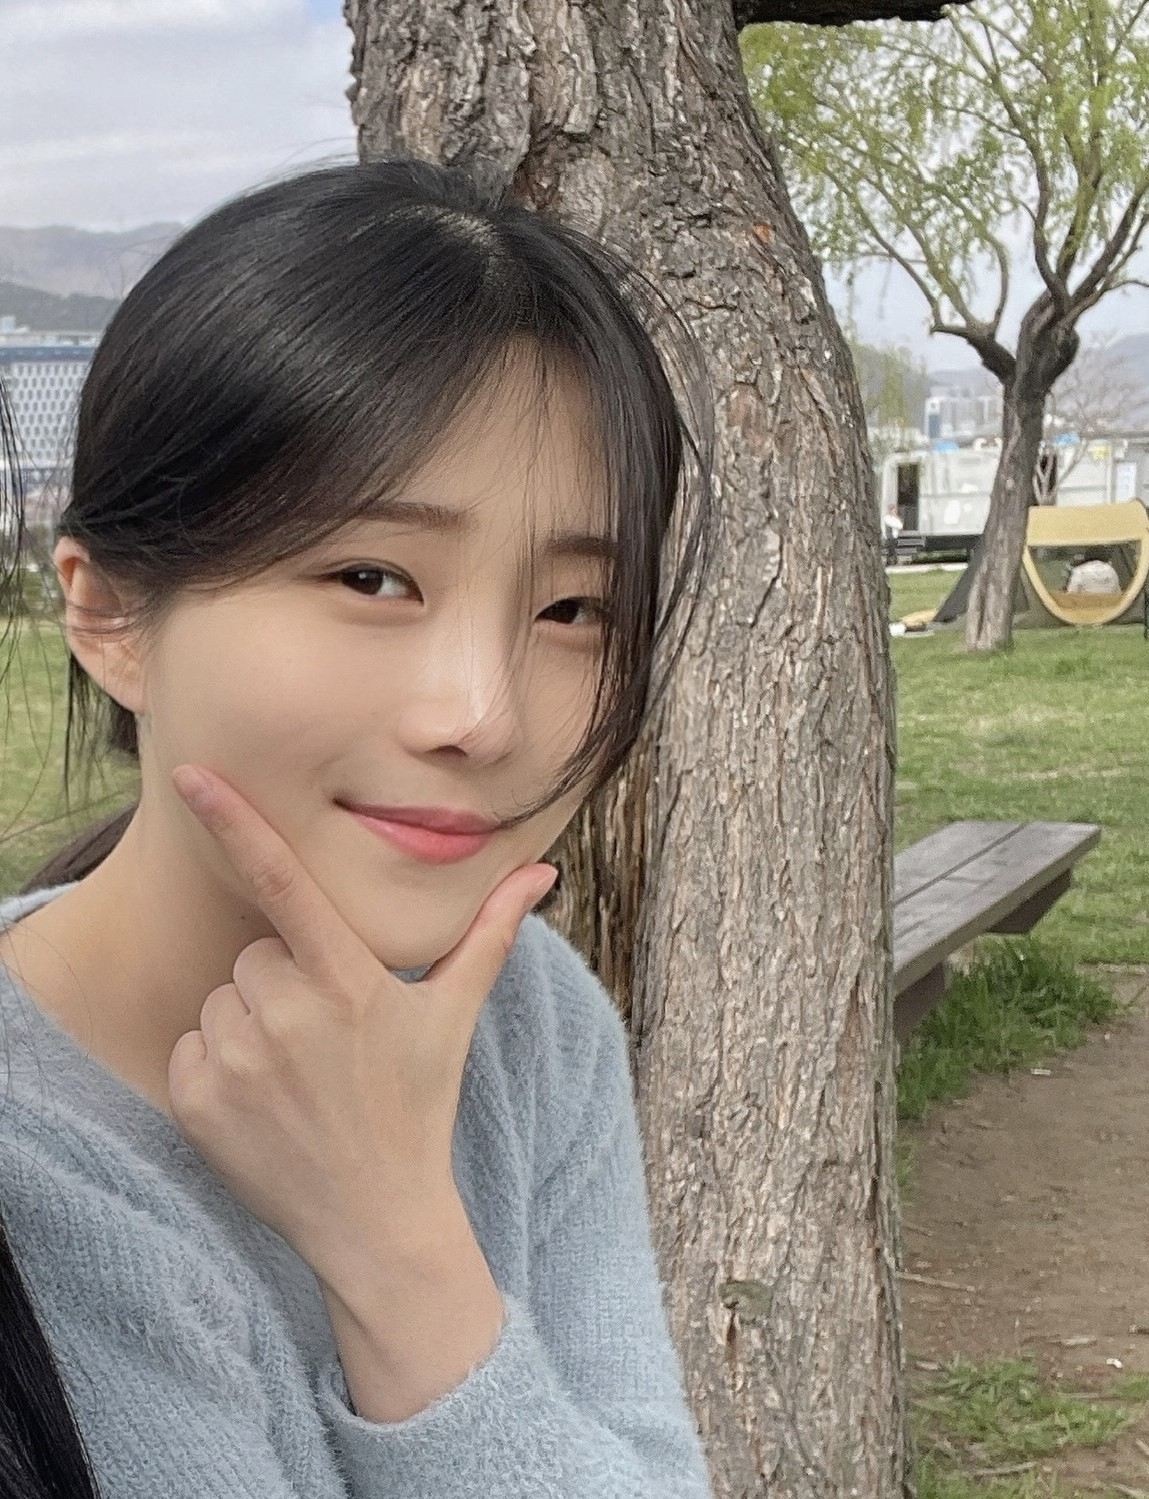
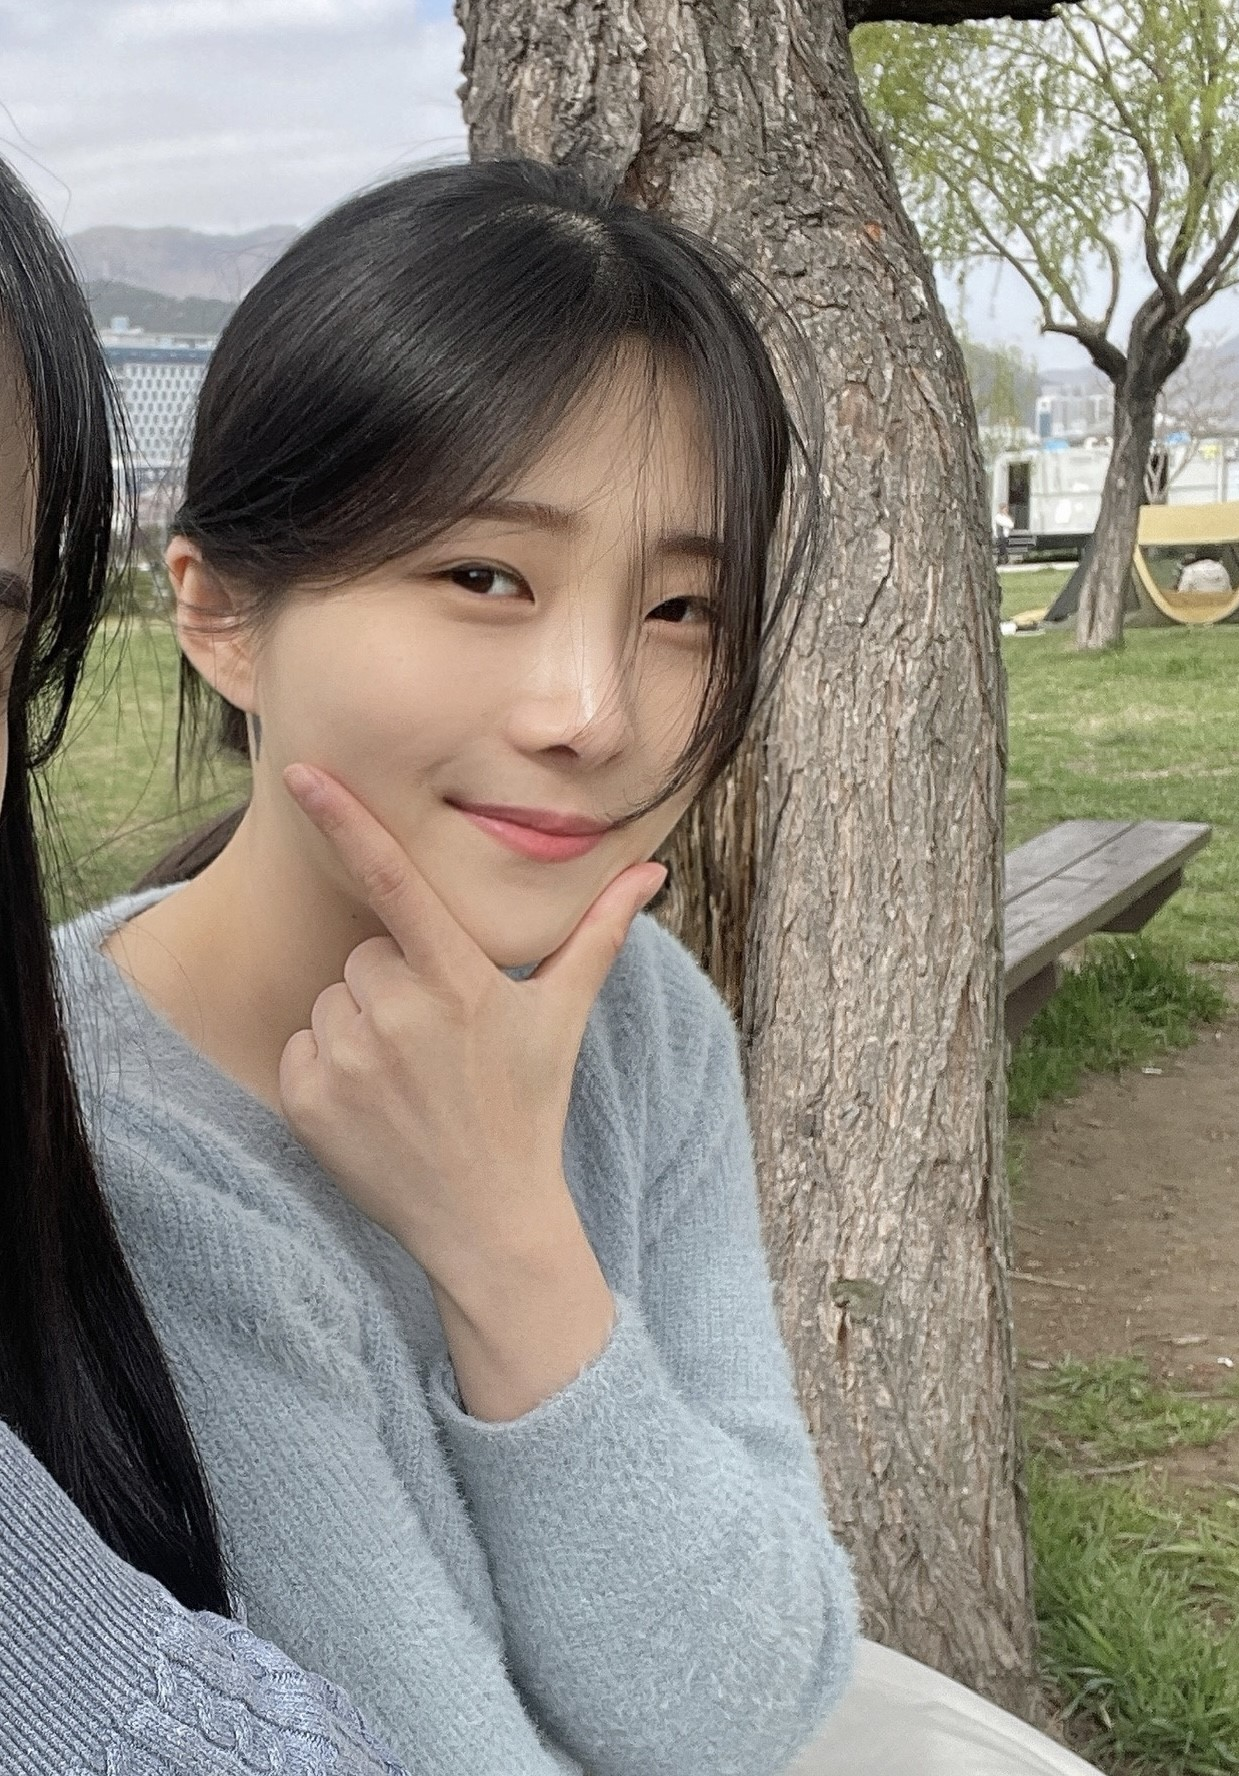
프로젝트 수정

diff --git a/src/app/project/[id]/projects.js b/src/app/project/[id]/projects.js
@@ -106,8 +106,9 @@ export const projects = [
                 쿠키 인증에 기반한 로그인 로직을 구현하였고, 인증된 사용자에게만 CRUD 구현이 가능한 나만의 일기장 서비스입니다.`,
       created: "2024.01.20 - 2024.02.02",
       stacks: ["ASP.Net core", "Javascript", "MariaDB", "BootStrap", "Jquery"],
-      url: "/img/project_mydiary.png",
+      url: "/img/project_mydiary2.png",
       gifUrl: "/img/project_mydiary.gif",
+      gifUrl2: "/img/project_mydiary_login.gif",
       path: "/project/mydiary",
       developments: [
         "MVC(Model-View-Controller) 패턴을 사용하여 각 구성 요소 간의 결합도를 낮추었습니다.",
@@ -160,37 +161,33 @@ export const projects = [
     },
     {
       params: "gpt",  
-      name: "GPT 심리상담사",
+      name: "GPT 레시피",
       content: 
-      `공기청정기 제작 및 렌탈기업을 위한 웹사이트 전체 개발 프로젝트를 주도.
-      기업 홍보와 발주 문의 및 견적 접수 기능, 
-      제품 소개를 위한 페이지로 기획부터 디자인, 
-      프론트엔드와 백엔드 개발을 포함한 전 과정을 
-      단독으로 관리 중인 실제 서비스이다. `,
-      created: "2023.08.10 - 2023.09.17",
-      stacks: ["React.js", "Firebase", "Figma"],
+      `GPT-3.5-Turbo API를 활용하여 사용자의 상황과 요리 능력,
+      가지고 있는 재료들을 기반으로 맞춤형 레시피를 제공해주는 서비스입니다.
+       `,
+      created: "2024.02.16 - 2024.02.23",
+      stacks: ["React.js", "Firebase", "antd", "openAI"],
       url: "/img/project_gpt.png",
       gifUrl: "/img/project_gpt.gif",
       path: "/project/gpt",
       developments: [
-        " Figma를 이용해 모바일에서도 최적화된 디자인 구현",
-         "BrowserRouter를 이용한 라우팅으로 SPA 웹 구현",
-         "React Suspense를 활용하여 비동기 작업으로 로딩 최적화",
-         "자주 사용되는 imageViewer, modal을 재사용 가능한 컴포넌트로 코드 효율성 증대",
-         "Kakao map API를 이용해 기업 위치 추가",
-         "Firestore를 이용해 클라이언트 견적 요청 저장",
-         "Firebase authentication을 활용해 관리자 페이지 보안 설정",
-         "Firebase를 통한 배포 및 도메인 연결",
+       " GPT-3.5-Turbo 모델 API를 통합하여 사용자 입력을 인공지능으로 분석하고, 결과를 JSON 형식으로 수신하였습니다.",
+        "컴포넌트 기반 접근 방식으로 SPA 웹 애플리케이션을 구현하였습니다.",
+        "TailwindCSS를 사용하여 모바일 환경에서도 최적화된 반응형 디자인을 구현하였습니다.",
+        "사용자 입력 검증을 위해 Ant Design의 message API를 활용하였습니다.",
+        "Firebase를 이용하여 애플리케이션의 호스팅을 진행하였습니다.",
        ],
        reviews: [
-         "스크롤이벤트를 사용하면서 observer를 사용하는 것과 아닌 것의 차이점",
-         "CSR의 SEO에 취약하여 React-Helmet을 사용하였지만 번거로워 Next.js를 사용할 예정",
-         "react suspense로 얻을 수 있는 이점", 
-         "useEffect의 Dependency Array의 중요성"
+         `여러 입력 필드를 관리하기 위해 배열을 사용한 상태 관리에 직면한 어려움이 있었습니다.
+         onChange이벤트가 발생할 때 모든 필드의 값이 동일한 value를 가지는 문제였고,
+         이 문제는 반복문(map)을 사용할 때 index 값과 배열의 복사 기능을 활용하여 해결할 수 있었습니다.
+         이로인해 상태 관리에서 배열을 다룰 때는 각 요소를 고유하게 식별하는 방법의 중요성을 깊이 이해하게 되었습니다.`,
+         `GPT API를 활용하는 과정에서 API로부터 반환되는 응답 형식의 일관성 부족으로 어려움을 느꼈습니다.`
        ],
        link: {
-         Github: "https://github.com/ngeetl/intem",
-         Deployment: "https://intem.co.kr/"
+         Github: "https://github.com/ngeetl/GPTRecipe",
+         Deployment: "https://gptrecipe-ec699.web.app/"
        }
     },
     

diff --git a/src/components/Intro.js b/src/components/Intro.js
@@ -14,7 +14,7 @@ const Intro = () => {
         {/* Profile */}
         <div id='profile' className='absolute -top-16 md:-top-20'>
           <div className='md:w-36 md:h-36 w-28 h-28 overflow-hidden rounded-3xl mb-2'>
-            <img className='w-full h-full object-cover' src='/img/profile_img.jpg'/>
+            <img className='w-full h-full object-cover' src='/img/profile_img2.jpg'/>
           </div>
           <div className='font-bold text-2xl'>YeinLee 이예인</div>
           <div className='text-[17px] font-medium'>능동적이고 진취적인 개발자</div>

diff --git a/src/app/project/[id]/page.js b/src/app/project/[id]/page.js
@@ -16,6 +16,7 @@ export default function Project({ params }) {
 
             <div className="w-full h-full overflow-hidden p-1">
                 <img src={myProject.gifUrl} className="w-full h-full object-cover"/>
+                {myProject.gifUrl2 && <img src={myProject.gifUrl2} className="w-full h-full object-cover"/>}
             </div>
 
             <div className="mt-6 mb-3">

diff --git a/src/components/Picture.js b/src/components/Picture.js
@@ -5,7 +5,7 @@ const Picture = () => {
   const keyPictures = [
     {
       url: '/img/keypicture1.jpg',
-      text: '사람들고 소통하고 커피를 좋아해 카페에서 오래 근무했어요' 
+      text: '사람들과 소통하고 커피를 좋아해 카페에서 오래 근무했어요' 
     },
     {
       url: '/img/keypicture2.jpg',
